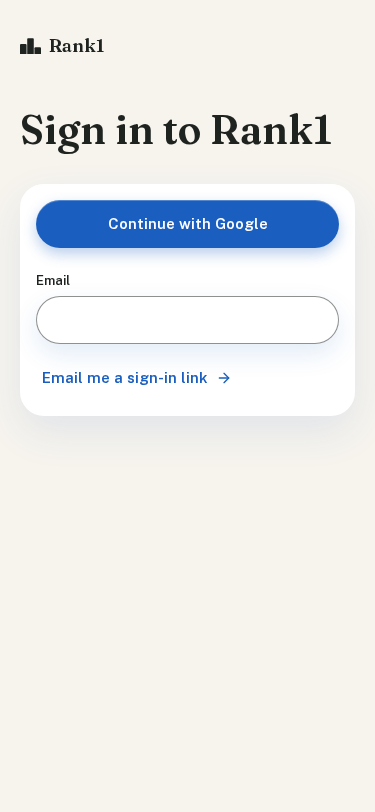
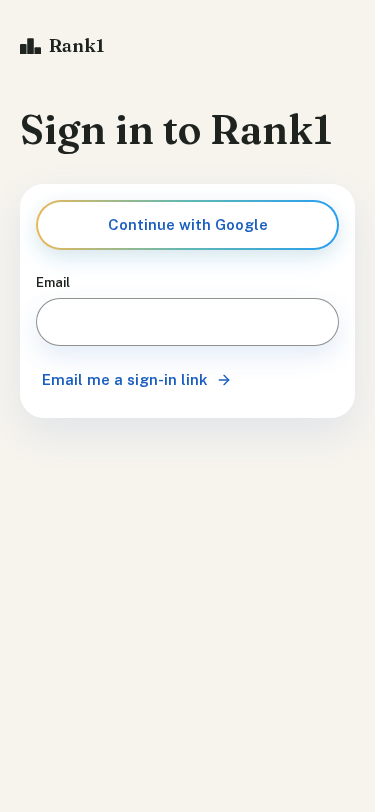
fix(auth): aurora Google button, config redirect without Supabase env, preview-safe e2e
QA (PR #17): Continue with Google uses the AuroraButton, including its
loading state. /auth/callback and /auth/signout send to
/signin?error=config instead of an empty 500 when the env is unset.
Tests that need the local stack skip when E2E_BASE_URL is set; the
public checks still run against a preview.

diff --git a/tests/e2e/auth.spec.ts b/tests/e2e/auth.spec.ts
@@ -93,6 +93,7 @@ test("an expired email link comes back to /signin with the link banner", async (
 test("first self-serve sign-in makes one workspace with the user as owner and lands on onboarding", async ({
   page,
 }) => {
+  test.skip(Boolean(process.env.E2E_BASE_URL), "needs local Supabase");
   const user = await newUser("selfserve");
   await openMagicLink(page, user.email);
   expect(new URL(page.url()).pathname).toBe("/app/onboarding");
@@ -108,6 +109,7 @@ test("first self-serve sign-in makes one workspace with the user as owner and la
 });
 
 test("a seeded team user lands on /team with no self-serve workspace", async ({ page }) => {
+  test.skip(Boolean(process.env.E2E_BASE_URL), "needs local Supabase");
   const user = await newUser("team", "team");
   await openMagicLink(page, user.email, "/app/billing");
   expect(new URL(page.url()).pathname).toBe("/team");
@@ -117,6 +119,7 @@ test("a seeded team user lands on /team with no self-serve workspace", async ({ 
 });
 
 test("a seeded dfy_client lands on /client", async ({ page }) => {
+  test.skip(Boolean(process.env.E2E_BASE_URL), "needs local Supabase");
   const user = await newUser("dfy", "dfy_client");
   await openMagicLink(page, user.email);
   expect(new URL(page.url()).pathname).toBe("/client");
@@ -126,6 +129,7 @@ test("a seeded dfy_client lands on /client", async ({ page }) => {
 });
 
 test("Start for $99/mo goes through sign-in to the billing paywall stub", async ({ page }) => {
+  test.skip(Boolean(process.env.E2E_BASE_URL), "needs local Supabase");
   await page.goto("/");
   await page.locator("#pricing").getByRole("link", { name: "Start for $99/mo" }).click();
   await page.waitForURL(/\/signin/);
@@ -142,6 +146,7 @@ test("Start for $99/mo goes through sign-in to the billing paywall stub", async 
 });
 
 test("sign out from the Account menu, then /app is closed again", async ({ page }) => {
+  test.skip(Boolean(process.env.E2E_BASE_URL), "needs local Supabase");
   const user = await newUser("signout");
   await openMagicLink(page, user.email);
   await page.getByText(c.account, { exact: true }).click();
@@ -152,6 +157,7 @@ test("sign out from the Account menu, then /app is closed again", async ({ page 
 });
 
 test("a team user signs out from the workspace sidebar", async ({ page }) => {
+  test.skip(Boolean(process.env.E2E_BASE_URL), "needs local Supabase");
   const user = await newUser("team-out", "team");
   await openMagicLink(page, user.email);
   if (page.viewportSize()!.width < 768) await page.getByRole("tab", { name: "Nav", exact: true }).click();
@@ -167,6 +173,7 @@ for (const [role, home] of [
   ["dfy_client", "/client"],
 ] as const) {
   test(`a ${role ?? "self-serve"} user who opens /team is sent to ${home}`, async ({ page }) => {
+    test.skip(Boolean(process.env.E2E_BASE_URL), "needs local Supabase");
     const user = await newUser("not-team", role);
     await openMagicLink(page, user.email);
     await page.goto("/team");
@@ -177,6 +184,7 @@ for (const [role, home] of [
 }
 
 test("a signed-in owner gets the /app dashboard placeholder", async ({ page }) => {
+  test.skip(Boolean(process.env.E2E_BASE_URL), "needs local Supabase");
   const user = await newUser("owner");
   await openMagicLink(page, user.email);
   await page.goto("/app");
@@ -191,6 +199,7 @@ for (const [role, area, home] of [
   ["dfy_client", "/app", "/client"],
 ] as const) {
   test(`a ${role ?? "self-serve"} user who opens ${area} is sent to ${home}`, async ({ page }) => {
+    test.skip(Boolean(process.env.E2E_BASE_URL), "needs local Supabase");
     const user = await newUser("wrong-area", role);
     await openMagicLink(page, user.email);
     await page.goto(area);
@@ -199,6 +208,7 @@ for (const [role, area, home] of [
 }
 
 test("a cross-site sign-out post is refused and the session stays", async ({ page }) => {
+  test.skip(Boolean(process.env.E2E_BASE_URL), "needs local Supabase");
   const user = await newUser("csrf");
   await openMagicLink(page, user.email);
   const res = await page.request.post("/auth/signout", {

diff --git a/tests/unit/auth/signin-form.test.tsx b/tests/unit/auth/signin-form.test.tsx
@@ -28,8 +28,13 @@ afterEach(() => {
 describe("SignInForm", () => {
   it("opens Google with a callback that carries next, and shows the loading label", async () => {
     render(<SignInForm next="/app/billing" />);
+    // Final set: the aurora ring is the one gradient, on the Google sign-in button only (UI.md "Aurora button").
+    expect(screen.getByRole("button", { name: c.google })).toHaveClass("aurora-ring");
     await userEvent.click(screen.getByRole("button", { name: c.google }));
-    expect(await screen.findByRole("button", { name: c.openingGoogle })).toBeDisabled();
+    const opening = await screen.findByRole("button", { name: c.openingGoogle });
+    expect(opening).toBeDisabled();
+    expect(opening).toHaveClass("aurora-ring");
+    expect(opening).toHaveAttribute("aria-busy", "true");
     await waitFor(() => expect(auth.signInWithOAuth).toHaveBeenCalledTimes(1));
     expect(auth.signInWithOAuth).toHaveBeenCalledWith({
       provider: "google",
@@ -77,6 +82,12 @@ describe("SignInForm", () => {
   it("shows the expired-link banner when an email link failed", () => {
     render(<SignInForm next={null} error="link" />);
     expect(screen.getByRole("alert")).toHaveTextContent(c.linkExpired);
+  });
+
+  it("keeps the magic-link submit a secondary button, not a second aurora ring", () => {
+    render(<SignInForm next={null} />);
+    expect(screen.getByRole("button", { name: c.sendLink })).not.toHaveClass("aurora-ring");
+    expect(document.querySelectorAll(".aurora-ring")).toHaveLength(1);
   });
 
   it("checks the email before sending", async () => {

diff --git a/src/components/auth/SignInForm.tsx b/src/components/auth/SignInForm.tsx
@@ -2,6 +2,7 @@
 
 import { useState, type FormEvent } from "react";
 import { PillField } from "@/components/forms/PillField";
+import { AuroraButton } from "@/components/ui/AuroraButton";
 import { Banner } from "@/components/ui/Banner";
 import { Button } from "@/components/ui/Button";
 import { authCopy as c } from "@/lib/auth/copy";
@@ -81,9 +82,9 @@ export function SignInForm({ next, error }: { next: string | null; error?: "goog
   return (
     <div className="flex flex-col gap-6">
       {notice && <Banner tone={notice.tone}>{notice.text}</Banner>}
-      <Button onClick={google} loading={opening} className="w-full">
+      <AuroraButton onClick={google} loading={opening} className="w-full">
         {opening ? c.openingGoogle : c.google}
-      </Button>
+      </AuroraButton>
       <form noValidate onSubmit={emailLink} className="flex flex-col gap-3">
         <PillField label={c.emailLabel} name="email" type="email" autoComplete="email" error={emailError} />
         <Button type="submit" variant="secondary" disabled={sending} className="self-start">

diff --git a/tests/unit/auth/callback.test.ts b/tests/unit/auth/callback.test.ts
@@ -21,6 +21,8 @@ const call = async (qs: string) => {
 };
 
 beforeEach(() => {
+  vi.stubEnv("NEXT_PUBLIC_SUPABASE_URL", "http://sb.test");
+  vi.stubEnv("NEXT_PUBLIC_SUPABASE_ANON_KEY", "anon");
   vi.clearAllMocks();
   auth.exchangeCodeForSession.mockResolvedValue({ error: null });
   auth.verifyOtp.mockResolvedValue({ error: null });
@@ -29,6 +31,15 @@ beforeEach(() => {
 });
 
 describe("/auth/callback", () => {
+  it.each([["NEXT_PUBLIC_SUPABASE_URL"], ["NEXT_PUBLIC_SUPABASE_ANON_KEY"]])(
+    "sends to /signin?error=config instead of a 500 when %s is missing",
+    async (name) => {
+      vi.stubEnv(name, "");
+      expect(await call("?code=abc&next=%2Fapp%2Fbilling")).toBe("/signin?error=config");
+      expect(auth.exchangeCodeForSession).not.toHaveBeenCalled();
+    },
+  );
+
   it("exchanges a code, makes the self-serve workspace, then routes by landing", async () => {
     expect(await call("?code=abc")).toBe("/app/onboarding");
     expect(auth.exchangeCodeForSession).toHaveBeenCalledWith("abc");

diff --git a/src/lib/supabase/middleware.ts b/src/lib/supabase/middleware.ts
@@ -1,14 +1,14 @@
 import { createServerClient } from "@supabase/ssr";
 import { NextResponse, type NextRequest } from "next/server";
 import { isProtected, signInPath } from "@/lib/auth/next";
+import { supabaseEnv } from "./env";
 
 // Refreshes the session cookie on every request and sends signed-out visitors of /app, /team and /client to /signin.
 export async function updateSession(request: NextRequest) {
   const { pathname, search } = request.nextUrl;
-  const url = process.env.NEXT_PUBLIC_SUPABASE_URL;
-  const key = process.env.NEXT_PUBLIC_SUPABASE_ANON_KEY;
-  // Supabase not connected (createServerClient would throw): public pages still work, app areas stay closed.
-  if (!url || !key)
+  const env = supabaseEnv();
+  // Supabase not connected: public pages still work, app areas stay closed.
+  if (!env)
     return isProtected(pathname)
       ? NextResponse.redirect(new URL(signInPath(pathname, search), request.url))
       : NextResponse.next({ request });

diff --git a/tests/unit/auth/signout.test.ts b/tests/unit/auth/signout.test.ts
@@ -13,9 +13,22 @@ const post = (headers: Record<string, string | undefined>) =>
     }),
   );
 
-beforeEach(() => signOut.mockReset());
+beforeEach(() => {
+  vi.stubEnv("NEXT_PUBLIC_SUPABASE_URL", "http://sb.test");
+  vi.stubEnv("NEXT_PUBLIC_SUPABASE_ANON_KEY", "anon");
+  signOut.mockReset();
+});
 
 describe("POST /auth/signout", () => {
+  it("sends to /signin?error=config instead of a 500 when the Supabase env is missing", async () => {
+    vi.stubEnv("NEXT_PUBLIC_SUPABASE_URL", "");
+    const res = await post({ "sec-fetch-site": "same-origin" });
+    expect(res.status).toBe(303);
+    const to = new URL(res.headers.get("location")!);
+    expect(to.pathname + to.search).toBe("/signin?error=config");
+    expect(signOut).not.toHaveBeenCalled();
+  });
+
   it.each([{ "sec-fetch-site": "same-origin" }, { origin: "http://localhost:3000" }])(
     "signs out a same-origin request (%o) and goes to /signin",
     async (h) => {

diff --git a/src/app/auth/signout/route.ts b/src/app/auth/signout/route.ts
@@ -1,4 +1,5 @@
 import { NextResponse, type NextRequest } from "next/server";
+import { supabaseEnv } from "@/lib/supabase/env";
 import { createClient } from "@/lib/supabase/server";
 
 // POST only, so a prefetch or a link can't sign anyone out; same-origin only, so another site's form can't either.
@@ -8,6 +9,7 @@ export async function POST(request: NextRequest) {
   const origin = request.headers.get("origin");
   const sameOrigin = site ? site === "same-origin" : origin === request.nextUrl.origin;
   if (!sameOrigin) return new NextResponse(null, { status: 403 });
+  if (!supabaseEnv()) return NextResponse.redirect(new URL("/signin?error=config", request.url), 303);
   const db = await createClient();
   await db.auth.signOut();
   return NextResponse.redirect(new URL("/signin", request.url), 303);

diff --git a/src/app/auth/callback/route.ts b/src/app/auth/callback/route.ts
@@ -2,6 +2,7 @@ import type { EmailOtpType } from "@supabase/supabase-js";
 import { NextResponse, type NextRequest } from "next/server";
 import { landingPath, safeNext } from "@/lib/auth/next";
 import { ensureSelfServeWorkspace, getLanding } from "@/lib/queries/auth";
+import { supabaseEnv } from "@/lib/supabase/env";
 import { createClient } from "@/lib/supabase/server";
 
 const EMAIL_TYPES: EmailOtpType[] = ["magiclink", "email", "signup", "invite"];
@@ -17,6 +18,7 @@ export async function GET(request: NextRequest) {
   const fail = () =>
     go(`/signin?error=${viaEmail ? "link" : "google"}${next ? `&next=${encodeURIComponent(next)}` : ""}`);
 
+  if (!supabaseEnv()) return go("/signin?error=config");
   const db = await createClient();
   const code = q.get("code");
   let signedIn = false;

diff --git a/tests/e2e/team-workspace.spec.ts b/tests/e2e/team-workspace.spec.ts
@@ -6,6 +6,9 @@ import { buildBrief, claudeUrl, contextFor } from "@/lib/workspace/context";
 import { exampleWorkspaceRows } from "@/app/team/example-data";
 import { newUser, openMagicLink } from "./helpers/auth";
 
+// Every test here signs in a seeded team user, which needs the local stack's service-role key.
+test.skip(Boolean(process.env.E2E_BASE_URL), "needs local Supabase");
+
 const NOW = new Date("2026-11-05T12:00:00Z");
 const view = buildWorkspace(exampleWorkspaceRows());
 const dashboardBrief = buildBrief(contextFor(view, { kind: "section", section: "dashboard" }), NOW);

diff --git a/src/lib/supabase/env.ts b/src/lib/supabase/env.ts
@@ -1,0 +1,6 @@
+// The browser-safe Supabase settings, or null while Supabase isn't connected (createServerClient would throw).
+export function supabaseEnv(): { url: string; key: string } | null {
+  const url = process.env.NEXT_PUBLIC_SUPABASE_URL;
+  const key = process.env.NEXT_PUBLIC_SUPABASE_ANON_KEY;
+  return url && key ? { url, key } : null;
+}

diff --git a/PROGRESS.md b/PROGRESS.md
@@ -172,6 +172,9 @@ Changed
 - `POST /auth/signout` and the Account menu (details/summary, works without JS) on the /app and /client headers and in #11's workspace sidebar (new `user` icon).
 - Role gates (AreaGate in the /app and /client layouts and the /team page): `/app` is for self-serve owners and members, `/team` for team and `/client` for dfy_client. A wrong role goes to its own home (review of #14).
 - Without NEXT_PUBLIC_SUPABASE_URL and the anon key (Supabase not connected on Vercel yet), the proxy passes public pages through and still sends the app areas to /signin, instead of every page returning 500 (review of #14).
+- "Continue with Google" is the AuroraButton (UI.md "Aurora button": the one gradient, Google sign-in only), including 'Opening Google…'. The magic-link submit stays secondary (QA, PR #17).
+- `/auth/callback` and `POST /auth/signout` redirect to `/signin?error=config` instead of an empty 500 when the Supabase env is missing. COPY.md has no string for it, so /signin shows no banner for `config` (ask the lead before adding one).
+- Local-stack e2e (10 in auth.spec.ts, all of team-workspace.spec.ts) skip when E2E_BASE_URL is set ("needs local Supabase", same pattern as client-secrets.spec.ts). The 10 public auth checks still run on a preview (QA, PR #17).
 - `POST /auth/signout` accepts only same-origin requests (Sec-Fetch-Site, or else Origin), so another site's form can't sign a user out.
 - `/team` (#11's workspace): team role only. Signed out goes to /signin, and any other role goes to its own home. With ENABLE_TEAM_WORKSPACE off, a team user gets the placeholder.
 - Landing: "Start for $99/mo" → `/signin?next=/app/billing` (was a 404 to /sign-in). Header "Log in" → `/signin`. `/app/billing` is the paywall stub: the Pricing card, the button disabled, "Checkout isn't open yet."
